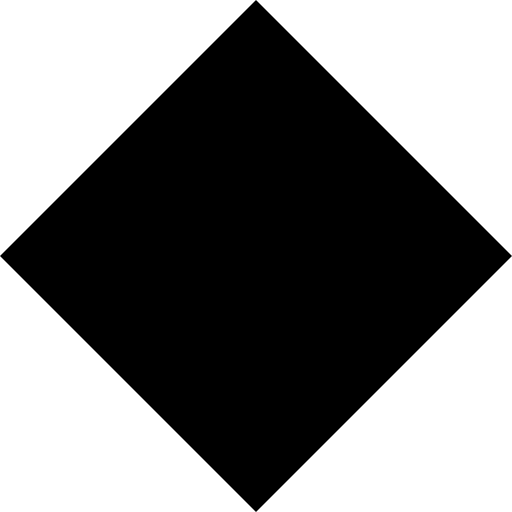
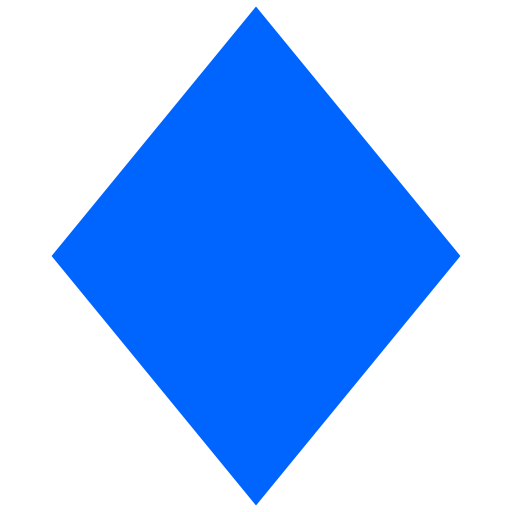
best leveling ever

diff --git a/src/js/crushlevels.js b/src/js/crushlevels.js
@@ -2189,7 +2189,7 @@ export const LM1 = {
   delta: -1,
   random: false,
   mesh: [5, 1],
-  counter: counters.square,
+  counter: counters.darkpurple
 };
 
 export const LM1A = {
@@ -2198,7 +2198,7 @@ export const LM1A = {
   delta: -2,
   random: false,
   mesh: [5, 1],
-  counter: counters.square,
+  counter: counters.darkpurple
 };
 
 export const LM1B = {
@@ -2207,7 +2207,7 @@ export const LM1B = {
   delta: -2,
   random: false,
   mesh: [5, 1],
-  counter: counters.square,
+  counter: counters.darkpurple
 };
 
 export const LM1C = {
@@ -2216,7 +2216,7 @@ export const LM1C = {
   delta: -1,
   random: false,
   mesh: [5, 1],
-  counter: counters.square,
+  counter: counters.darkpurple
 };
 
 export const LM2 = {
@@ -2225,7 +2225,7 @@ export const LM2 = {
   delta: 1,
   mesh: [5, 1],
   random: false,
-  counter: counters.square,
+  counter: counters.darkpurple
 };
 
 export const LM3 = {
@@ -2234,7 +2234,7 @@ export const LM3 = {
   delta: -2,
   mesh: [5, 1],
   random: false,
-  counter: counters.square,
+  counter: counters.darkpurple
 };
 
 export const LM4 = {
@@ -2243,7 +2243,7 @@ export const LM4 = {
   delta: 1,
   mesh: [5, 1],
   random: false,
-  counter: counters.square,
+  counter: counters.darkpurple
 };
 
 export const LM5 = {
@@ -2251,7 +2251,7 @@ export const LM5 = {
   value: 3,
   delta: 1,
   mesh: [5, 1],
-  counter: counters.square,
+  counter: counters.darkpurple
 };
 
 export const LM6 = {
@@ -2259,7 +2259,7 @@ export const LM6 = {
   value: 2,
   delta: 1,
   mesh: [5, 1],
-  counter: counters.square,
+  counter: counters.darkpurple
 };
 
 export const FiveFrame = {
@@ -2563,6 +2563,11 @@ export const D1E = {
   random: false,
   counter: counters.diamond,
 };
+
+export const Diamonds = {
+  name: "Diamonds",
+  puzzles: [D1,D1A,D1B,D1C,D1D,D1E]
+}
 
 // #region Early Estimation
 
@@ -2968,6 +2973,11 @@ export const E1G = {
   random: false,
   counter: counters.orange,
 };
+
+export const EstimationLevelOne = {
+  name: "Estimation Level Two",
+  puzzles: [E1A,E1B,E1C,E1D,E1E,E1F,E1G]
+}
 
 // #region Dragons Level
 
@@ -3543,6 +3553,11 @@ export const S5 = {
   counter: counters.square,
 };
 
+export const Squares = {
+  name: "Squares",
+  puzzles: [S1,S1A,S1B,S1C,S1D,S1E,S1F,S2,S2A]
+}
+
 // #endregion
 
 // #region Ten Plus or Minus One
@@ -3589,28 +3604,54 @@ export const TenPlusOrMinusOne = {
 // #region Four By Four Large Number Estimation
 
 export const LEST1 = {
-  grid: [4, 4],
-  value: 20,
+  grid: [5, 5],
+  value: 15,
   delta: -3,
   mesh: [5, 5],
-  counter: counters.green,
+  random: false,
+  counter: counters.orange,
 };
 
 export const LEST2 = {
   grid: [5, 5],
-  value: 20,
+  value: 18,
   delta: -3,
   mesh: [5, 5],
+  random: false,
   counter: counters.orange,
 };
 
 export const LEST3 = {
   grid: [5, 5],
-  value: 15,
+  value: 20,
   delta: -3,
   mesh: [5, 5],
+  random: false,
   counter: counters.orange,
 };
+
+export const LEST4 = {
+  grid: [5, 5],
+  value: 20,
+  delta: 3,
+  mesh: [5, 5],
+  random: false,
+  counter: counters.orange,
+};
+
+export const LEST5 = {
+  grid: [5, 5],
+  value: 22,
+  delta: -2,
+  mesh: [5, 5],
+  random: false,
+  counter: counters.orange,
+};
+
+export const EstimationLevelTwo = {
+  name: "Estimation Level One",
+  puzzles: [LEST1,LEST2,LEST3,LEST4,LEST5]
+}
 
 // #endregion
 
@@ -3846,37 +3887,17 @@ export const crushlevels = [
   ...FiveFrame.puzzles,
   ...Eights.puzzles,
   ...Tens.puzzles,
+  ...Diamonds.puzzles,
   ...KindergartenOpener.puzzles,
   ...Rainbows.puzzles,
   ...Dragon.puzzles,
-  D1,
-  D1A,
-  D1B,
-  D1C,
-  D1D,
-  D1E,
+  ...Squares.puzzles,
   ...CountingFiveToTen.puzzles,
   ...ThreeByThreeByThree.puzzles,
-  L4,
-  L4A,
-  L4B,
-  L4C,
-  L4D,
+  ...EstimationLevelOne.puzzles,
   ...TenPlusOrMinusOne.puzzles,
-  E1A,
-  E1B,
-  E1C,
-  E1D,
-  E1E,
-  E1F,
-  E1G,
   ...GradeOneOpener.puzzles,
-  S1A,
-  S1B,
-  S1C,
-  S1D,
-  S1E,
-  S1F,
+  ...EstimationLevelTwo.puzzles,
   L7,
   L8,
   L9,

diff --git a/src/js/crushAPI.js b/src/js/crushAPI.js
@@ -299,7 +299,7 @@ export const init = (app, setup) => {
     },
     diamond: {
       texture: DIAMOND_COUNTER,
-      stroke: 0x424242,
+      stroke: LINE_COLORS.blue,
       value: 1,
     },
     blue: {
